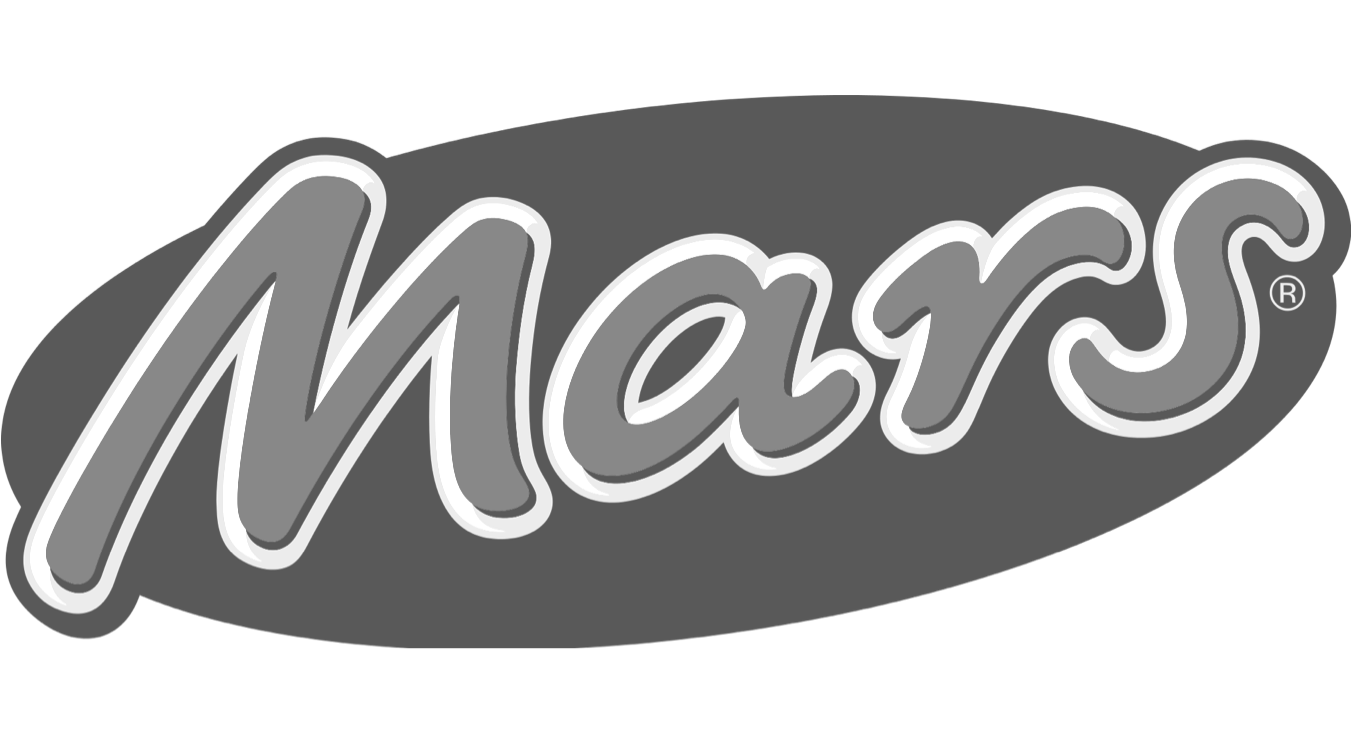
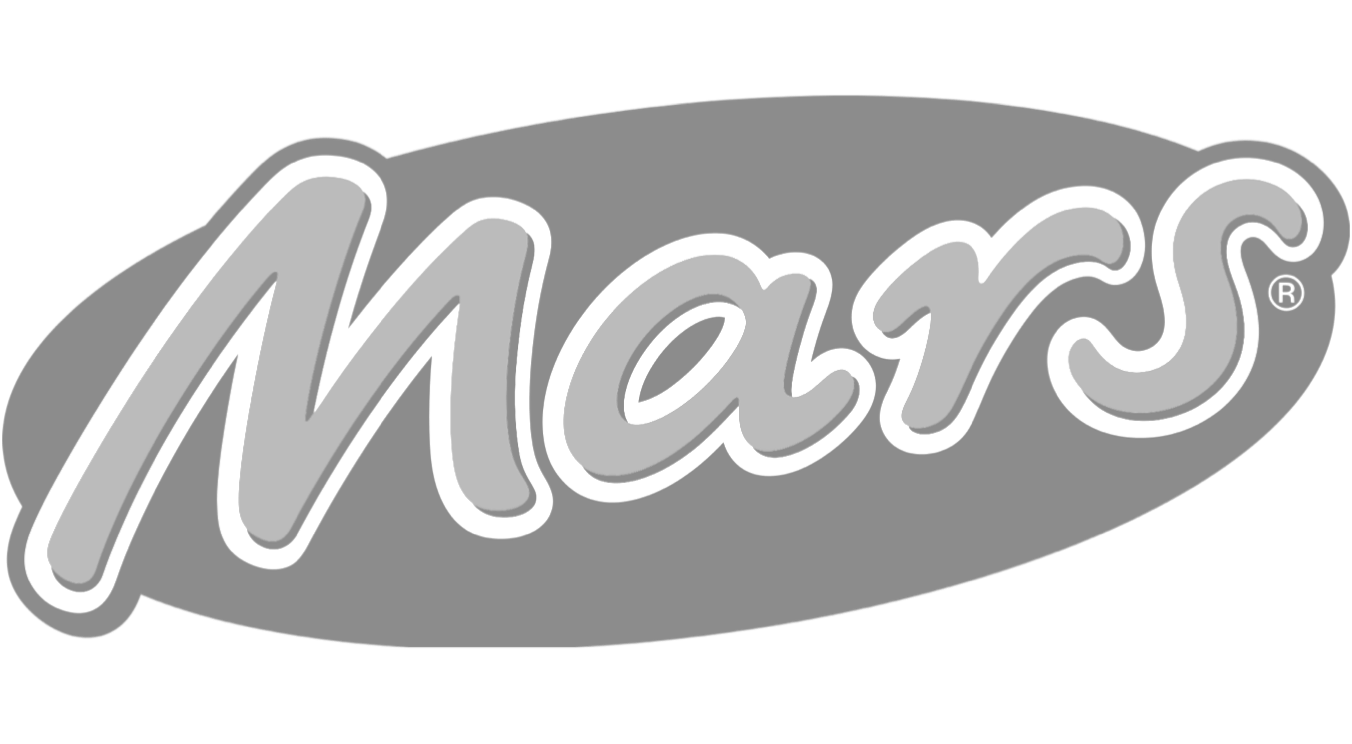
bugfixes and changed colors to better match other images

diff --git a/css/styles.css b/css/styles.css
@@ -81,6 +81,8 @@ nav {
 
 #banner_wrapper {
     height: 50%;
+    position: relative;
+    margin: auto;
 }
 
 #banner_wrapper img {

diff --git a/events.php b/events.php
@@ -52,7 +52,7 @@
             <div class='prof_wrapper'>
             	<a href = 'http://www.kraftheinzcompany.com/sustainability.html'> 
     	        	<img src='images/Kraft_Grey.png' alt='KraftHeinz'> 
-      		      	<img src='images/kraft_Orange.png' alt='KraftHeinz' class = 'hide'> 
+      		      	<img src='images/Kraft_Orange.png' alt='KraftHeinz' class = 'hide'> 
             	</a>
             </div>
      	   <div class='prof_wrapper'>
